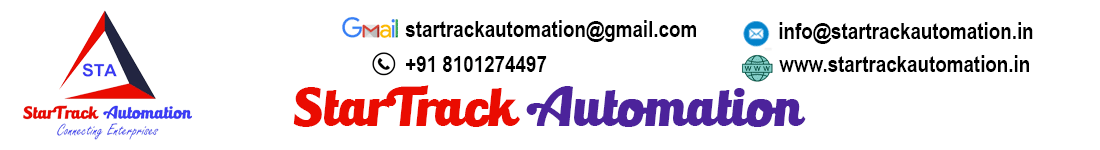
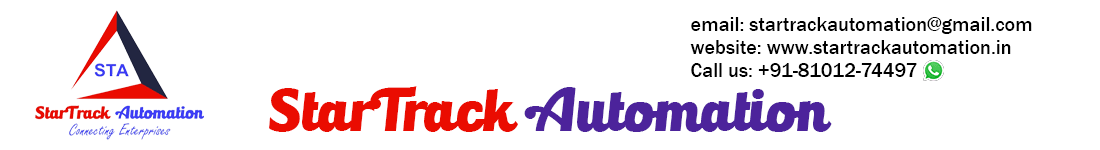
header fitted but pdf build issue need to fix

diff --git a/quote.js b/quote.js
@@ -798,11 +798,21 @@ document.getElementById("generateQuoteBtn").addEventListener("click", async () =
     return null; // No vendor selected
   }
 
+  // get header image src (based on selected logo)
+  function getHeaderImageSrc(){
+    const selectedLogo = getSelectedLogo();
+    if (selectedLogo) {
+      return `assets/header-footer/${selectedLogo}-header.png`;
+    }
+    // Default to sta header
+    return 'assets/header-footer/sta-header.png';
+  }
+
   // Read header right lines (fixed as per your instruction)
   const headerRightHTML = `
-    <div>www.startrackautomation.in</div>
-    <div>8101274497</div>
-    <div>startrackautomation@gmail.com</div>
+    <div></div>
+    <div></div>
+    <div></div>
   `;
 
   // Footer fields: attempt to read if there are inputs / placeholders
@@ -1199,9 +1209,7 @@ document.getElementById("generateQuoteBtn").addEventListener("click", async () =
     pagesHtml += `
       <div class="a4page page-vendor">
         <div class="header">
-          <div class="left"><img class="logo-small" src="${getSmallLogoSrc()}" alt="logo"></div>
-          <div class="center"></div>
-          <div class="right">${headerRightHTML}</div>
+          <div class="header-image"><img src="${getHeaderImageSrc()}" alt="header"></div>
         </div>
         <div class="content">
           <div class="vendor-block"><img src="${vendorLogoSrc}" alt="vendor-logo"></div>
@@ -1228,9 +1236,7 @@ document.getElementById("generateQuoteBtn").addEventListener("click", async () =
     pagesHtml += `
       <div class="a4page page-project">
         <div class="header">
-          <div class="left"><img class="logo-small" src="${getSmallLogoSrc()}" alt="logo"></div>
-          <div class="center"></div>
-          <div class="right">${headerRightHTML}</div>
+          <div class="header-image"><img src="${getHeaderImageSrc()}" alt="header"></div>
         </div>
         <div class="content">
           <h2 class="page-main-title">Project Description - Image ${idx + 1}</h2>
@@ -1295,9 +1301,7 @@ document.getElementById("generateQuoteBtn").addEventListener("click", async () =
           pagesHtml += `
             <div class="a4page page-bom">
               <div class="header">
-                <div class="left"><img class="logo-small" src="${getSmallLogoSrc()}" alt="logo"></div>
-                <div class="center"></div>
-                <div class="right">${headerRightHTML}</div>
+                <div class="header-image"><img src="${getHeaderImageSrc()}" alt="header"></div>
               </div>
               <div class="content">
                 <div class="bom-content">
@@ -1327,9 +1331,7 @@ document.getElementById("generateQuoteBtn").addEventListener("click", async () =
       pagesHtml += `
         <div class="a4page page-bom">
           <div class="header">
-            <div class="left"><img class="logo-small" src="${getSmallLogoSrc()}" alt="logo"></div>
-            <div class="center">BOM (Bill of Materials)</div>
-            <div class="right">${headerRightHTML}</div>
+            <div class="header-image"><img src="${getHeaderImageSrc()}" alt="header"></div>
           </div>
           <div class="content">
             <div class="bom-content">
@@ -1359,9 +1361,7 @@ document.getElementById("generateQuoteBtn").addEventListener("click", async () =
     pagesHtml += `
       <div class="a4page page-table">
         <div class="header">
-          <div class="left"><img class="logo-small" src="${getSmallLogoSrc()}" alt="logo"></div>
-          <div class="center"></div>
-          <div class="right">${headerRightHTML}</div>
+          <div class="header-image"><img src="${getHeaderImageSrc()}" alt="header"></div>
         </div>
         <div class="content">
           <div style="width:100%;height:100%;overflow:hidden">
@@ -1389,9 +1389,7 @@ document.getElementById("generateQuoteBtn").addEventListener("click", async () =
   pagesHtml += `
     <div class="a4page page-price-schedule">
       <div class="header">
-        <div class="left"><img class="logo-small" src="${getSmallLogoSrc()}" alt="logo"></div>
-        <div class="center"></div>
-        <div class="right">${headerRightHTML}</div>
+        <div class="header-image"><img src="${getHeaderImageSrc()}" alt="header"></div>
       </div>
       <div class="content">
         <div class="price-section">
@@ -1419,9 +1417,7 @@ document.getElementById("generateQuoteBtn").addEventListener("click", async () =
   pagesHtml += `
     <div class="a4page page-company-details">
       <div class="header">
-        <div class="left"><img class="logo-small" src="${getSmallLogoSrc()}" alt="logo"></div>
-        <div class="center"></div>
-        <div class="right">${headerRightHTML}</div>
+        <div class="header-image"><img src="${getHeaderImageSrc()}" alt="header"></div>
       </div>
       <div class="content">
         <div class="company-section">

diff --git a/quote-preview.css b/quote-preview.css
@@ -32,17 +32,33 @@ body{font-family:var(--font); background:#efefef; margin:14px; color:#111}
 /* header & footer */
 .header{
   height:var(--header-h);
-  padding:4mm var(--gutter);
+  padding:0;
   display:flex;
-  align-items:center;
-  justify-content:space-between;
-  gap:8mm;
+  align-items:stretch;
+  justify-content:center;
   border-bottom:0;
+  overflow:hidden;
 }
 .header .left{display:flex;align-items:center;gap:8px}
 .header img.logo-small{width:30mm;height:auto;display:block}
 .header .center{flex:1;text-align:center;font-weight:700}
 .header .right{font-size:11px;line-height:1.2;text-align:right;color:#333}
+
+/* Header image styling */
+.header .header-image{
+  width:100%;
+  height:100%;
+  display:flex;
+  align-items:center;
+  justify-content:center;
+}
+.header .header-image img{
+  width:100%;
+  height:auto;
+  max-height:100%;
+  object-fit:contain;
+  display:block;
+}
 
 /* content area between header & footer */
 .content{
